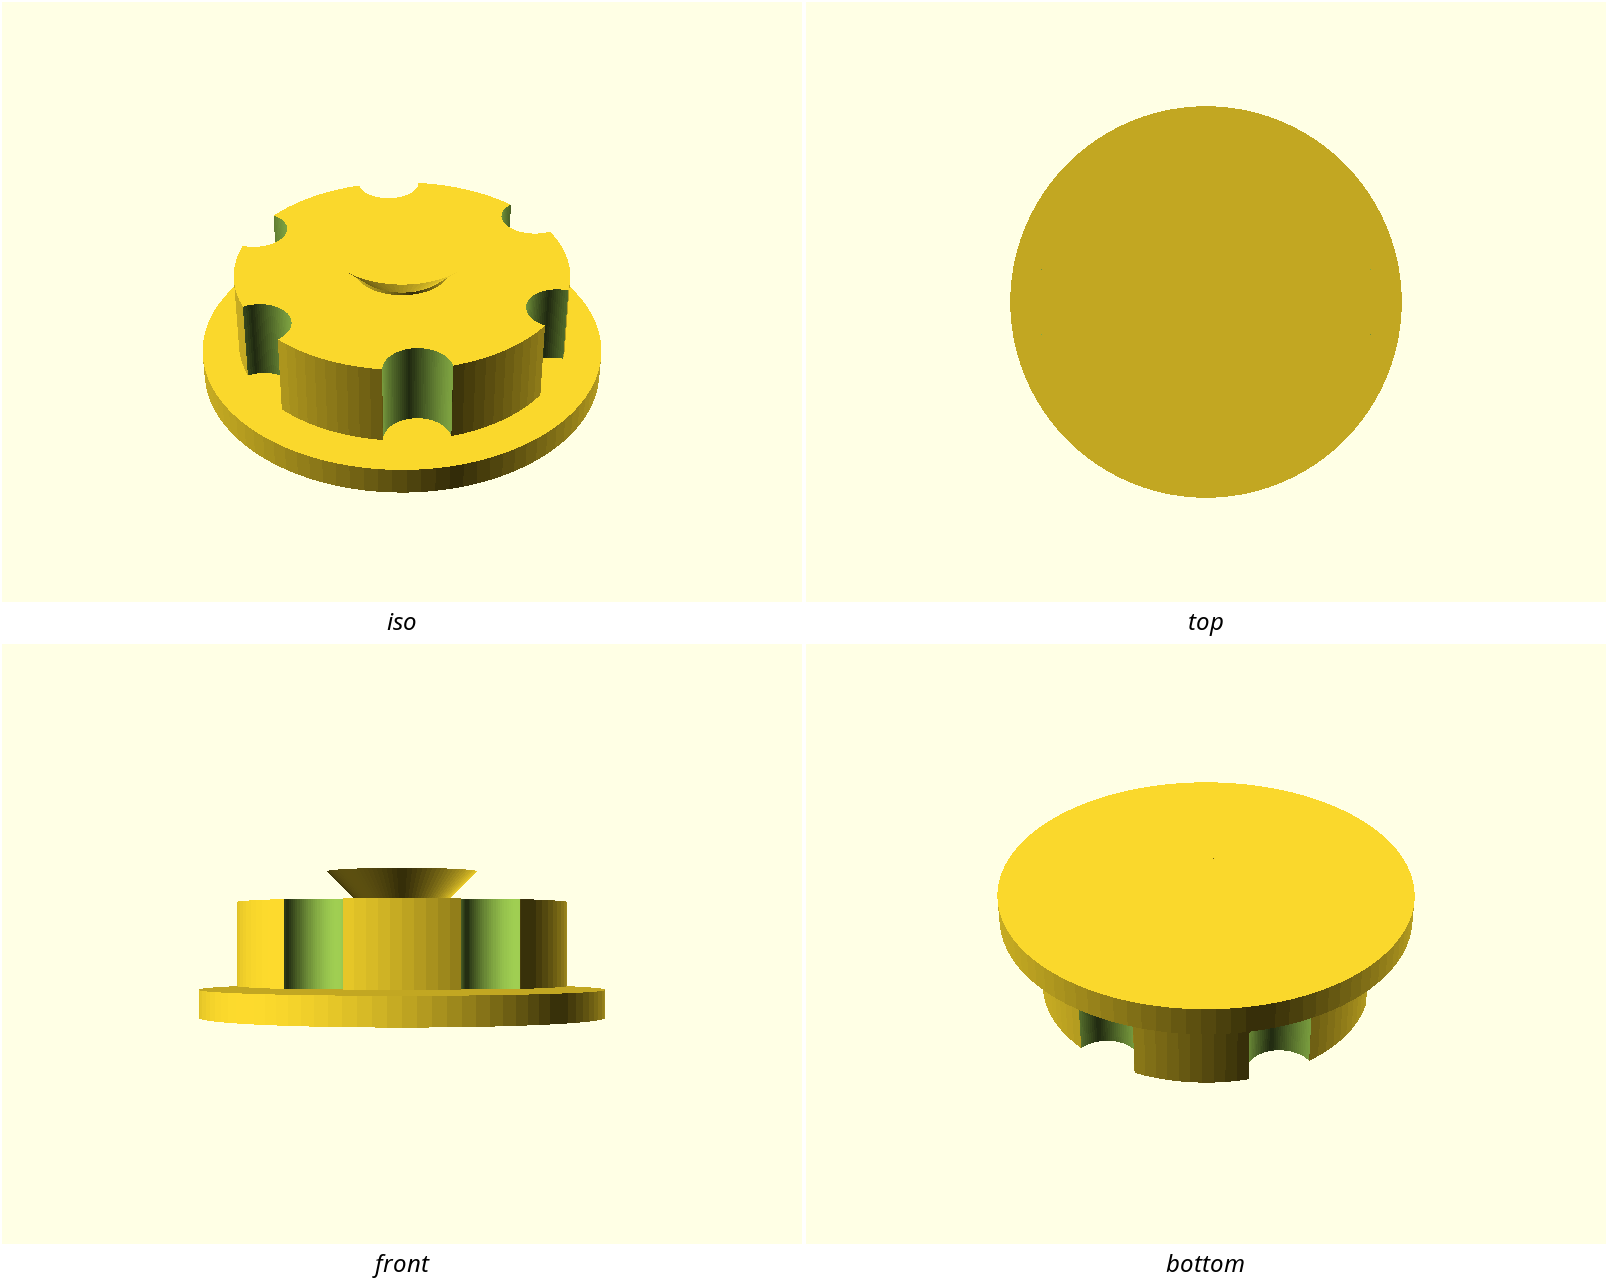
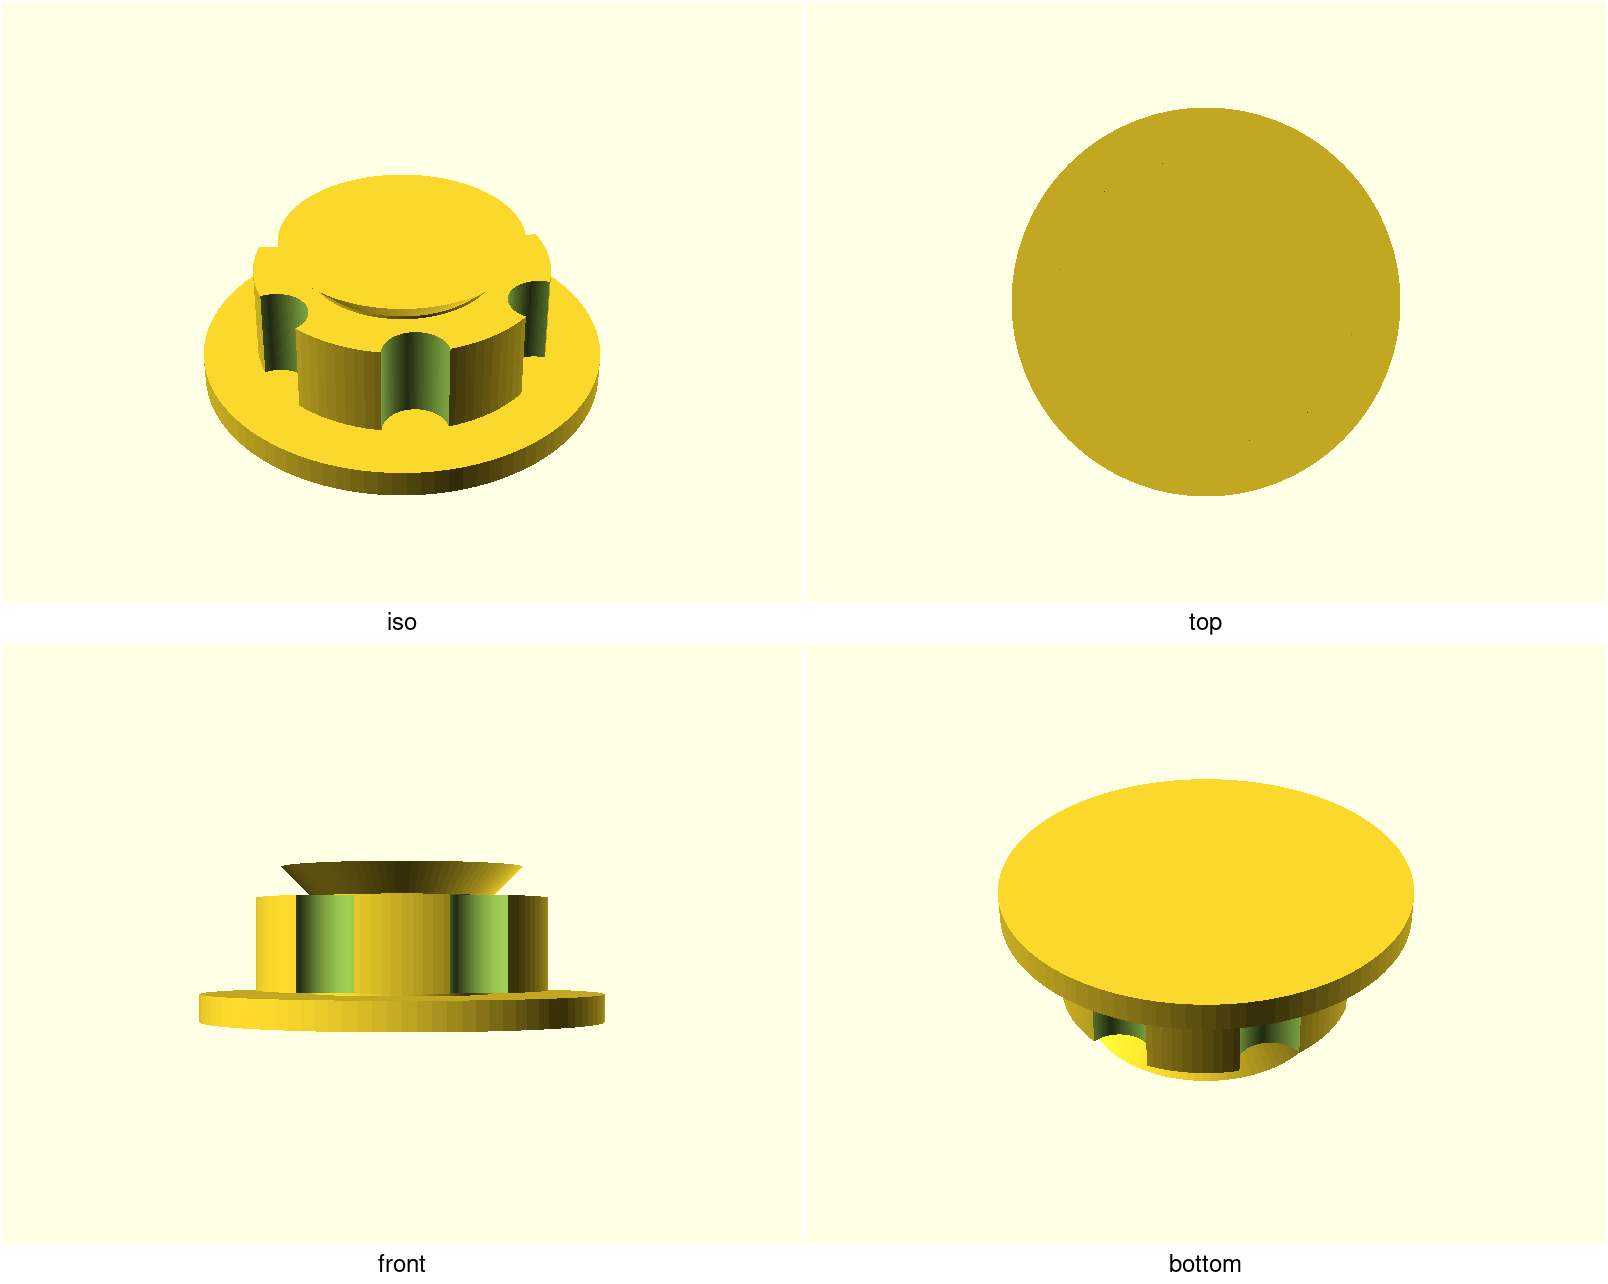
captive-spinner: one-piece print-in-place captive ring (Domain-3 Tier-1 reference) (#403)
* Update design: captive-spinner

Align the pre-existing scaffold to brief #387 (Tier-1 Domain-3 reference):
re-proportion to ring OD 32x10 on a post O20, derive the radial clearance
from process constants (k_xy*line_w ~= 0.207) with the axial gap snapped
to whole layers (2x0.2 = 0.4), and add the separability gates - ci.fusecheck
(assert 2 bodies post-slice + known-fused control, first manifest in the
repo) alongside the existing ci.fitchecks. Coupon re-proportioned to keep
the rim wall printable. Product page, NOTES derivation record, and a PM
charter transcribed from the frozen brief contract. Frozen preview
(contact-sheet) regenerated via new previews/cameras.conf.

* CI: regenerate previews and product pages

---------

diff --git a/designs/captive-spinner/NOTES.md b/designs/captive-spinner/NOTES.md
@@ -2,26 +2,45 @@
 
 **Reference design for** `docs/advanced-techniques.md` **Domain 3 (print-in-place
 kinematics)**, plus **CC3** (derive clearance; split xy from z) and **CC2** (the
-break-free first motion). Tier-1 "easy".
+break-free first motion). Tier-1 "easy". Built to brief **#387** (child of the
+Domain-3 reference set #204).
 
 ## Goal
 
 A one-piece, support-free, no-assembly fidget: a rotor ring captured on a fixed
 post + cap, spinning about the vertical axis after you shear the break-in fusion.
 
+## Given / assumed measurements (brief #387)
+
+| Quantity | Value | Status |
+|---|---|---|
+| Post diameter | 20 mm (`post_r = 10`) | assumed (brief default) |
+| Ring OD × width | 32 × 10 mm (`rotor_or = 16`, `rotor_h = 10`) | assumed (brief default) |
+| Escape lip angle | ≤ 45° (45° cone cap) | given |
+| Radial gap | `k_xy·line_w` ≈ 0.15–0.25 mm | derived (CC3, below) |
+| Axial gap | whole layers, ≈ 0.20–0.40 mm | derived (CC3, below) |
+| Process | 0.4 mm nozzle, 0.2 mm layers, PLA/PETG | given |
+
 ## The anisotropy lesson (CC3) — the reason this design exists
 
-Two different gaps, deliberately two different numbers:
+Two different gaps, deliberately two different numbers, each **derived from
+process constants**, never typed as a bare tolerance:
 
-| Gap | Interface | Physics | Value |
-|---|---|---|---|
-| **radial** | rotor bore ↔ post | vertical wall-to-wall → **spread-limited** | `xy_tol = 0.2` (≥ one line width) |
-| **axial** | rotor ↔ base, rotor ↔ cap | roof/floor over part → **sag-limited** | `z_tol = z_layers·layer_h = 0.4` (2 layers, quantized) |
+| Gap | Interface | Physics | Formula | Value |
+|---|---|---|---|---|
+| **radial** | rotor bore ↔ post | vertical wall-to-wall → **spread-limited** | `k_xy · line_w = 0.45 × (1.15 × 0.4)` | **≈ 0.207 mm** |
+| **axial** | rotor ↔ base, rotor ↔ cap | roof/floor over part → **sag-limited** | `z_layers · layer_h = 2 × 0.2` | **0.4 mm, integer layers** |
 
 A single global tolerance is the classic print-in-place bug. If you tuned both to
 the sag-limited 0.4, the rotor would wobble radially; if you tuned both to the
 spread-limited 0.2, the axial roof would fuse. They are governed by different
-processes, so they are different parameters.
+processes, so they are different parameters — and the axial one is **quantized to
+whole layers** (`z_layers` is an integer multiplied by `layer_h`) so the gap's
+floor and roof land on real layer boundaries.
+
+Derived chain (defaults): `line_w = 0.46`, `xy_tol = 0.207`, `rotor_ir = 10.207`,
+`z0 = 3.4` (rotor floats 0.4 above the base), `rotor_top = 13.4`, `r_cap =
+13.207` (`cap_lip = 3`), `cone_h = 3.2`.
 
 ## Capture geometry
 
@@ -31,26 +50,63 @@ that self-supports — the doc's captive-joint primitive. `z_cone0` is placed so
 the first cone material directly over the rotor bore edge lands exactly `z_tol`
 above the rotor top:  `z_cone0 = rotor_top + z_tol − xy_tol`.
 
-Guards: `xy_tol ≥ 0.15`, `cap_lip ≥ 1.5` (or the rotor pops off), `r_cap <
-rotor_or` (or there's no ring to grip).
+Captivation is both directions: the base blocks down-escape, and `r_cap >
+rotor_ir` blocks up-escape past the cone.
+
+Guards: `xy_tol ≥ 0.15` (spread floor), `z_layers ≥ 1` (whole-layer quantization
+is not optional), `cap_lip ≥ 1.5` (or the rotor pops off), `r_cap < rotor_or`
+(or there's no ring to grip).
 
 ## Break-free first motion (CC2)
 
-Printed in place, the rotor micro-fuses to base and cap across the gaps. First
-spin shears that fusion — expected, not a defect. Designed for a low-torque
-break-in (small contact annuli), never a seized part.
+Printed in place, the rotor micro-fuses to base and cap across the gaps — the
+sub-0.25 mm radial gap and the bridged first layer of the ring weld lightly, and
+the first spin shears it. Expected, not a defect. Designed for a low-torque
+break-in (small contact annuli), never a seized part. The 2-layer axial gap is
+what keeps that fusion a *shearable film* instead of a solid weld: sag into a
+0.4 mm gap stays under one extrusion's cross-section.
 
 ## Print this first
 
-`captive-spinner-coupon.scad` — a small spinner (include + override, no copied
-geometry). Print it and give the rotor a firm spin; if it's fused, raise `xy_tol`
-by 0.05 mm and reprint; if it rattles, lower it. Tune `xy_tol` here before a
-full-size print. Gated like any part.
+`captive-spinner-coupon.scad` — a small spinner (Ø28 × 13.8 mm; include +
+override of the proportion parameters only, no copied geometry). It keeps the
+**same process constants** (`nozzle_d`, `line_w`, `k_xy`, `layer_h`), so the
+`xy_tol` it prints is the `xy_tol` the full-size part gets — wall-to-wall spread
+does not care about the post's radius. Print it and give the rotor a firm spin:
 
-## Status
+1. **Fused** → raise `k_xy` by 0.05 and reprint the coupon.
+2. **Rattles** → lower `k_xy` by 0.05 and reprint.
+3. Free with a hint of resistance → print the full-size part with those `k_xy`.
 
-- Renders clean; preview reviewed (rotor + scallops + capture cone).
-- Print-in-place fit → this is its own mate. Before ship: `ci.fitchecks` proving
-  the rotor renders as a *separate body* with 0 interference facets, plus a
-  deliberately-interfering negative control (xy_tol driven to 0). TODO with gate.
-- TODO: `gate.sh --slice`, README, product shot.
+Then carry the tuned `k_xy` (not a tuned `xy_tol` — the clearance stays derived)
+into the full-size print. Gated like any part.
+
+## Verification (gate record)
+
+All green on 2026-08-24, `./scripts/gate.sh --slice captive-spinner` exit 0:
+
+- Render: CGAL-simple, 3 volumes (fixed body + free rotor), no errors.
+- printcheck: spinner **92/100** (one WARNING: the rotor's annular underside is
+  a 5.8 mm-wide bridge over the axial gap — that surface *is* the print-in-place
+  mechanism, sag-budgeted by `z_layers = 2`; no supports, no criticals); coupon
+  **100/100**.
+- Test-slice: both parts slice; PrusaSlicer warns about the floating ring
+  (stability note inherent to any print-in-place part) — warning-only.
+- `ci.fitchecks`: `fitcheck` renders **empty** (rotor clears everything); the
+  `fitcheck_neg` control (bore shrunk 0.4 mm onto the post) interferes with 768
+  facets — the check can fail.
+- `ci.fusecheck` (first manifest in the repo): both STLs assert **2 bodies**
+  post-slice — the rotor survives as its own body in the exact STL the gate
+  slices; the `fused` control stays **1 body**, so the check can still fire. No
+  `flexure` zones on purpose: the rotor connects to *nothing* (a disjoint
+  captive body), so there is no legitimate thin bridge to excuse — a fuse here
+  can only mean clearance collapse and must read red.
+
+## Provenance
+
+A `designs/captive-spinner/` scaffold (wrong proportions: Ø36 rotor, bare
+`xy_tol = 0.2`, no fusecheck) was already committed on main before this run —
+no PR of its own, no gate record. Per the amendment on the brief
+(#387, comment thread), this run aligned it to the brief's contract rather than
+rebuilding: geometry re-proportioned to Ø32×10/post Ø20, clearances re-derived
+from process constants, and the fitcheck/fusecheck manifests added.

diff --git a/designs/captive-spinner/PM.md b/designs/captive-spinner/PM.md
@@ -1,0 +1,97 @@
+# captive-spinner — product charter
+
+Transcribed from brief **#387** and the frozen SHIP-LOCK contract on that
+thread (nothing invented here — the brief is the source of record).
+
+## The product, in one paragraph
+
+A one-piece, print-in-place fidget spinner: a scalloped rotor ring captured on a
+fixed post under a self-supporting 45° cone cap, printed plate-down with no
+supports and no assembly, spinning after a break-free first motion. It is the
+**Tier-1 reference design** for `docs/advanced-techniques.md` Domain 3
+(print-in-place kinematics) and the cross-cutting moves CC2/CC3 — the customer
+is both the person who wants a fidget off the bed tonight and the person
+learning how anisotropic print-in-place clearances are derived.
+
+## Non-negotiables
+
+| # | Constraint | Number | Source | Reopens if |
+|---|---|---|---|---|
+| N1 | Radial gap derived from process constants, in the spread-limited window | `k_xy·line_w` ≈ 0.15–0.25 mm | brief (doc §Clearance theory); `assert(xy_tol >= 0.15)` guards the floor | a field test measures the window wrong on real hardware |
+| N2 | Axial gap snapped to whole layers | `z_layers·layer_h`, 2×0.2 = 0.4 mm | brief (sag-limited); `assert(z_layers >= 1)` | a field test shows 2 layers fusing or 3+ rattling |
+| N3 | Escape/capture lip ≤ 45° (self-supporting) | 45° cone by construction (`cone_h = r_cap − post_r`) | brief (given) | never — it is the printability of the capture itself |
+| N4 | One piece, plate-down, support-free | 0 support enforcers; printcheck/slice green | brief | never |
+| N5 | Rotor survives as its own body in the sliced STL | `ci.fusecheck` assert = 2 bodies, control = 1 | brief acceptance | never — this is the mechanism |
+| N6 | Tuning coupon ships and is gated | `captive-spinner-coupon.scad` + "Print this first" in NOTES | brief | never |
+
+## Out of scope
+
+**Deferred** — sibling Domain-3 reference designs own them (parent #204):
+bearing/marble variants, stacked or planetary rotors, machine-fit parts.
+
+**Never** — style packs (brief says `Style: none`); assembly-required versions
+(the one-piece property is the point); sub-0.15 mm "tighter is better" gaps.
+
+## v1 — definition of done
+
+The frozen gate contract on #387, checkable by anyone:
+
+- [x] G1 — `render.sh captive-spinner` clean, bottom-iso inspected (2026-08-24)
+- [x] G2 — `gate.sh --slice captive-spinner` exit 0: spinner 92/100, coupon
+      100/100, both fitchecks, fusecheck assert 2 + control 1 (2026-08-24)
+- [x] G3 — `readme-gate.sh captive-spinner` passes (2026-08-24)
+- [x] G4 — every *Must fit / hold* row measured off the export within tolerance
+      (post Ø 20.0000, OD 32.0001, width 10.0000, radial 0.2070, axial 0.4000/0.4000, lip 45.0°)
+- [x] G5 — `/preflight` green (2026-08-24: readme-gate, check.sh, lineage
+      selftest, gate --slice all exit 0)
+
+## Product page & shots (art direction)
+
+**Page promise.** "It comes off the print bed already assembled and spinning —
+and the two gaps that make that possible are derived, not guessed."
+
+**Mechanism honesty.** This design prints in its only pose — there is no
+`-D` pose that could hide a weld. The as-printed `contact-sheet` (what CI
+slices) is in the set, and `ci.fusecheck` is the deterministic backstop
+proving the rotor separates. The hero shows the same one-piece pose.
+
+**Shot list — tier 1 (real studio renders).**
+
+| Shot | What it sells | View | Look (color / finish) | Pose (`-D`, if any) |
+|---|---|---|---|---|
+| hero | the finished fidget, one piece | hero | `6a4fb3` / gloss | none — as printed |
+| contact-sheet | the truth: 4 views incl. bottom-iso | contact-sheet | render default | none |
+
+**AI product stills — tier 1.5.** None (backlog B2 if wanted).
+
+**Lifestyle scenes — tier 2 (AI, disclosed).**
+
+| Shot | Seed | Scene |
+|---|---|---|
+| lifestyle-scene | hero | desk/hand staging, "geometry is approximate" caption |
+
+**Motion clips — tier 2.** None — an AI clip inventing spin motion would
+compete with the one true claim (it *does* spin); a turntable GIF is backlog B3.
+
+## Backlog, ranked by user value
+
+| # | Item | Why this rank | Cost |
+|---|---|---|---|
+| B1 | Field-test print + record k_xy in NOTES (print-feedback) | reality is the only judge of a tuned fit | one coupon + one full print (~1 h, 10.9 g) |
+| B2 | tier-1.5 product still seeded from hero | page polish only | one ZAI_KEY run |
+| B3 | `animations.conf` turntable GIF | shows the spin deterministically | CI render only |
+
+## Open decisions
+
+| Question | Blocking? | Assumption if unanswered |
+|---|---|---|
+| none — the brief had no blocking open questions | — | — |
+
+## Decision log
+
+| Date | Decision | Reason |
+|---|---|---|
+| 2026-08-24 | Charter transcribed from brief #387 + frozen contract | pm checkpoint; no charter existed |
+| 2026-08-24 | Pre-existing scaffold aligned to the brief, not rebuilt | brief dimensions are the contract (G4); disclosure amendment on #387 |
+| 2026-08-24 | `xy_tol` re-derived as `k_xy·line_w` (was hardcoded 0.2) | CC3 is the design's reason to exist; bare numbers can't be tuned per printer |
+| 2026-08-24 | `ci.fusecheck` ships with no `flexure` zones | the rotor connects to nothing — a fuse can only be clearance collapse, so there is no legitimate bridge to excuse |

diff --git a/designs/captive-spinner/README.md b/designs/captive-spinner/README.md
@@ -16,33 +16,39 @@ then it runs free. A worked example of print-in-place kinematics
 
 ## What you get
 
-- `captive-spinner` — one print, ≈ 44 mm across × 16 mm tall, made of two
-  separate bodies (fixed base+post+cap, and the free rotor).
+- `captive-spinner` — one print, 44 mm across × 16.8 mm tall, made of two
+  separate bodies (fixed base+post+cap, and the free rotor ring, OD 32 × 10 wide
+  with six finger scallops).
 
 ## Print settings
 
 - **Material:** PLA is fine
 - **Layer height:** 0.2 mm (the clearances are quantized to it — see below)
 - **Infill:** 15–20 %
-- **Supports:** none needed
+- **Supports:** none needed — the ring's underside bridges over the axial gap by
+  design, and the cap's cone is a self-supporting 45° lip
 - **Orientation:** as modelled (base on the bed, axis vertical)
 - **First use:** give the rotor a firm first spin to break it free.
 
 The two gaps are deliberately **different numbers** because different physics
-govern them: the radial bore↔post gap is spread-limited so it's tight
-(`xy_tol = 0.2`), while the axial float below/above the rotor is sag-limited and
-snapped to whole layers (`z_layers · layer_h = 0.4`). A single global tolerance
-is the classic print-in-place bug.
+govern them: the radial bore↔post gap is spread-limited so it's tight and
+**derived from your process constants** (`k_xy · line_w ≈ 0.21` with a 0.4 mm
+nozzle), while the axial float below/above the rotor is sag-limited and snapped
+to whole layers (`z_layers · layer_h = 0.4`). A single global tolerance is the
+classic print-in-place bug.
 
 ## Parameters
 
 | Parameter | Default | What it does |
 |---|---|---|
-| `xy_tol` | 0.2 mm | radial rotor↔post clearance (spread-limited) |
+| `k_xy` | 0.45 | radial clearance factor — the tuning knob for the rotor↔post fit |
 | `z_layers` | 2 | axial float in whole layers (sag-limited) |
-| `rotor_or` | 18 mm | rotor outer radius |
+| `nozzle_d` | 0.4 mm | your nozzle — drives `line_w` and therefore `xy_tol` |
+| `layer_h` | 0.2 mm | drives the axial gap quantization |
+| `rotor_or` | 16 mm | rotor outer radius (ring OD 32) |
 | `cap_lip` | 3 mm | how far the cap overhangs the bore (capture) |
 | `scallops` | 6 | finger grip notches |
 
 All parameters are at the top of `captive-spinner.scad`; override with
-`-D 'xy_tol=0.25'`. If the rotor won't free, print a copy with `xy_tol` +0.05.
+`-D 'k_xy=0.5'`. If the rotor won't free, print a copy with `k_xy` +0.05 —
+start with the coupon (`captive-spinner-coupon.scad`) to tune fast.
